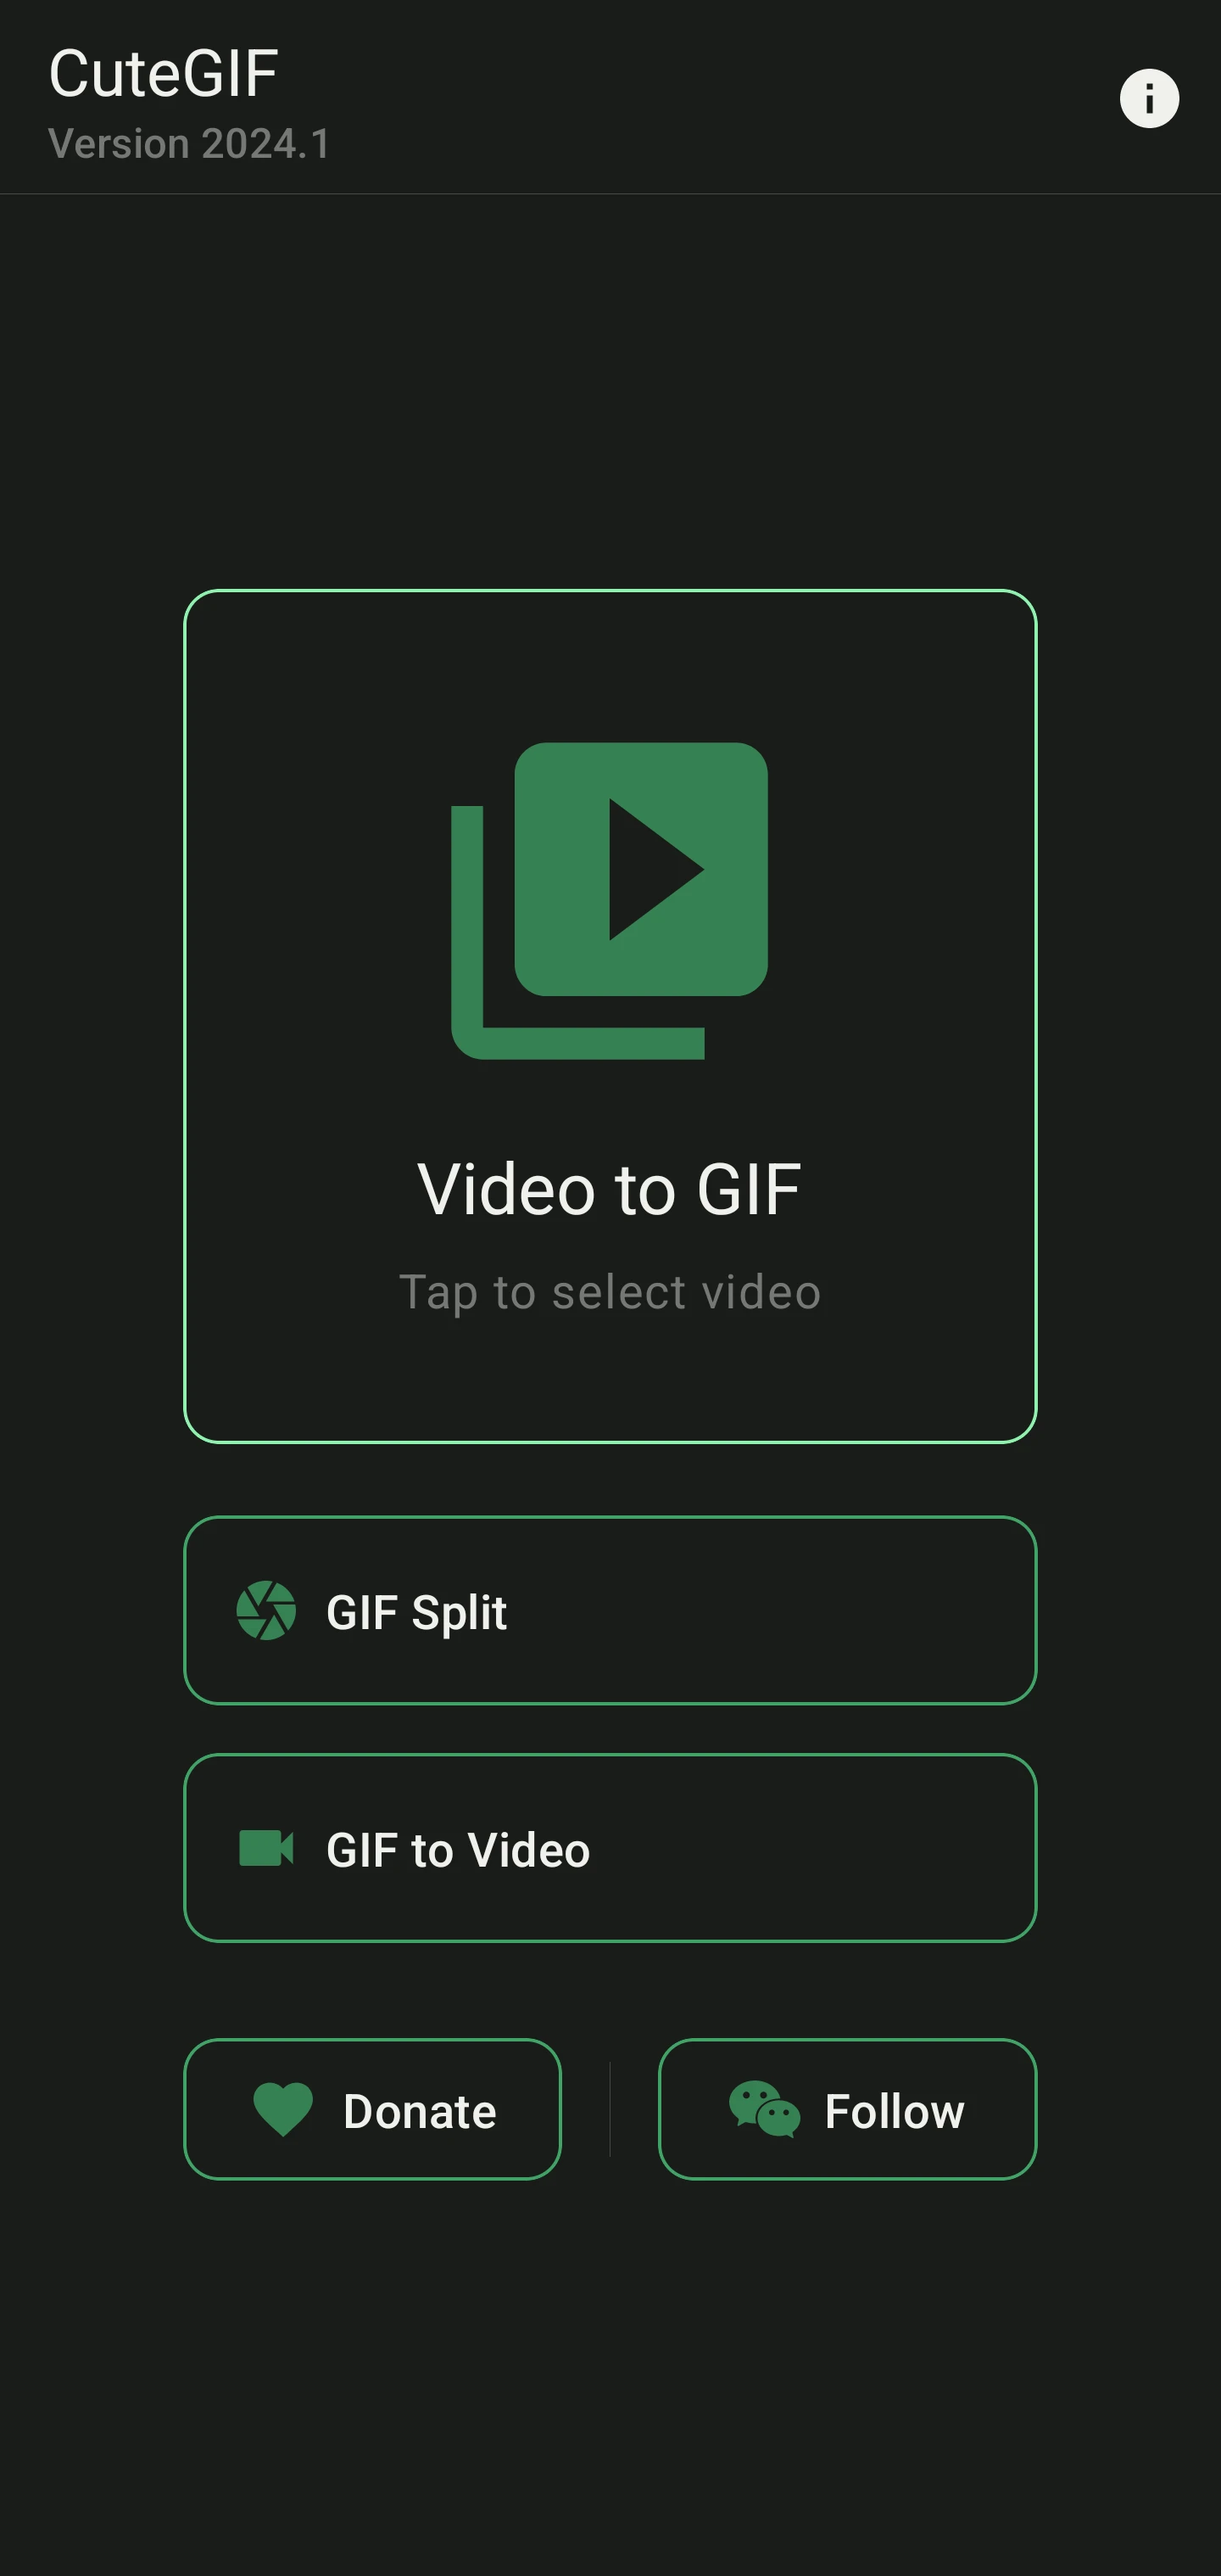
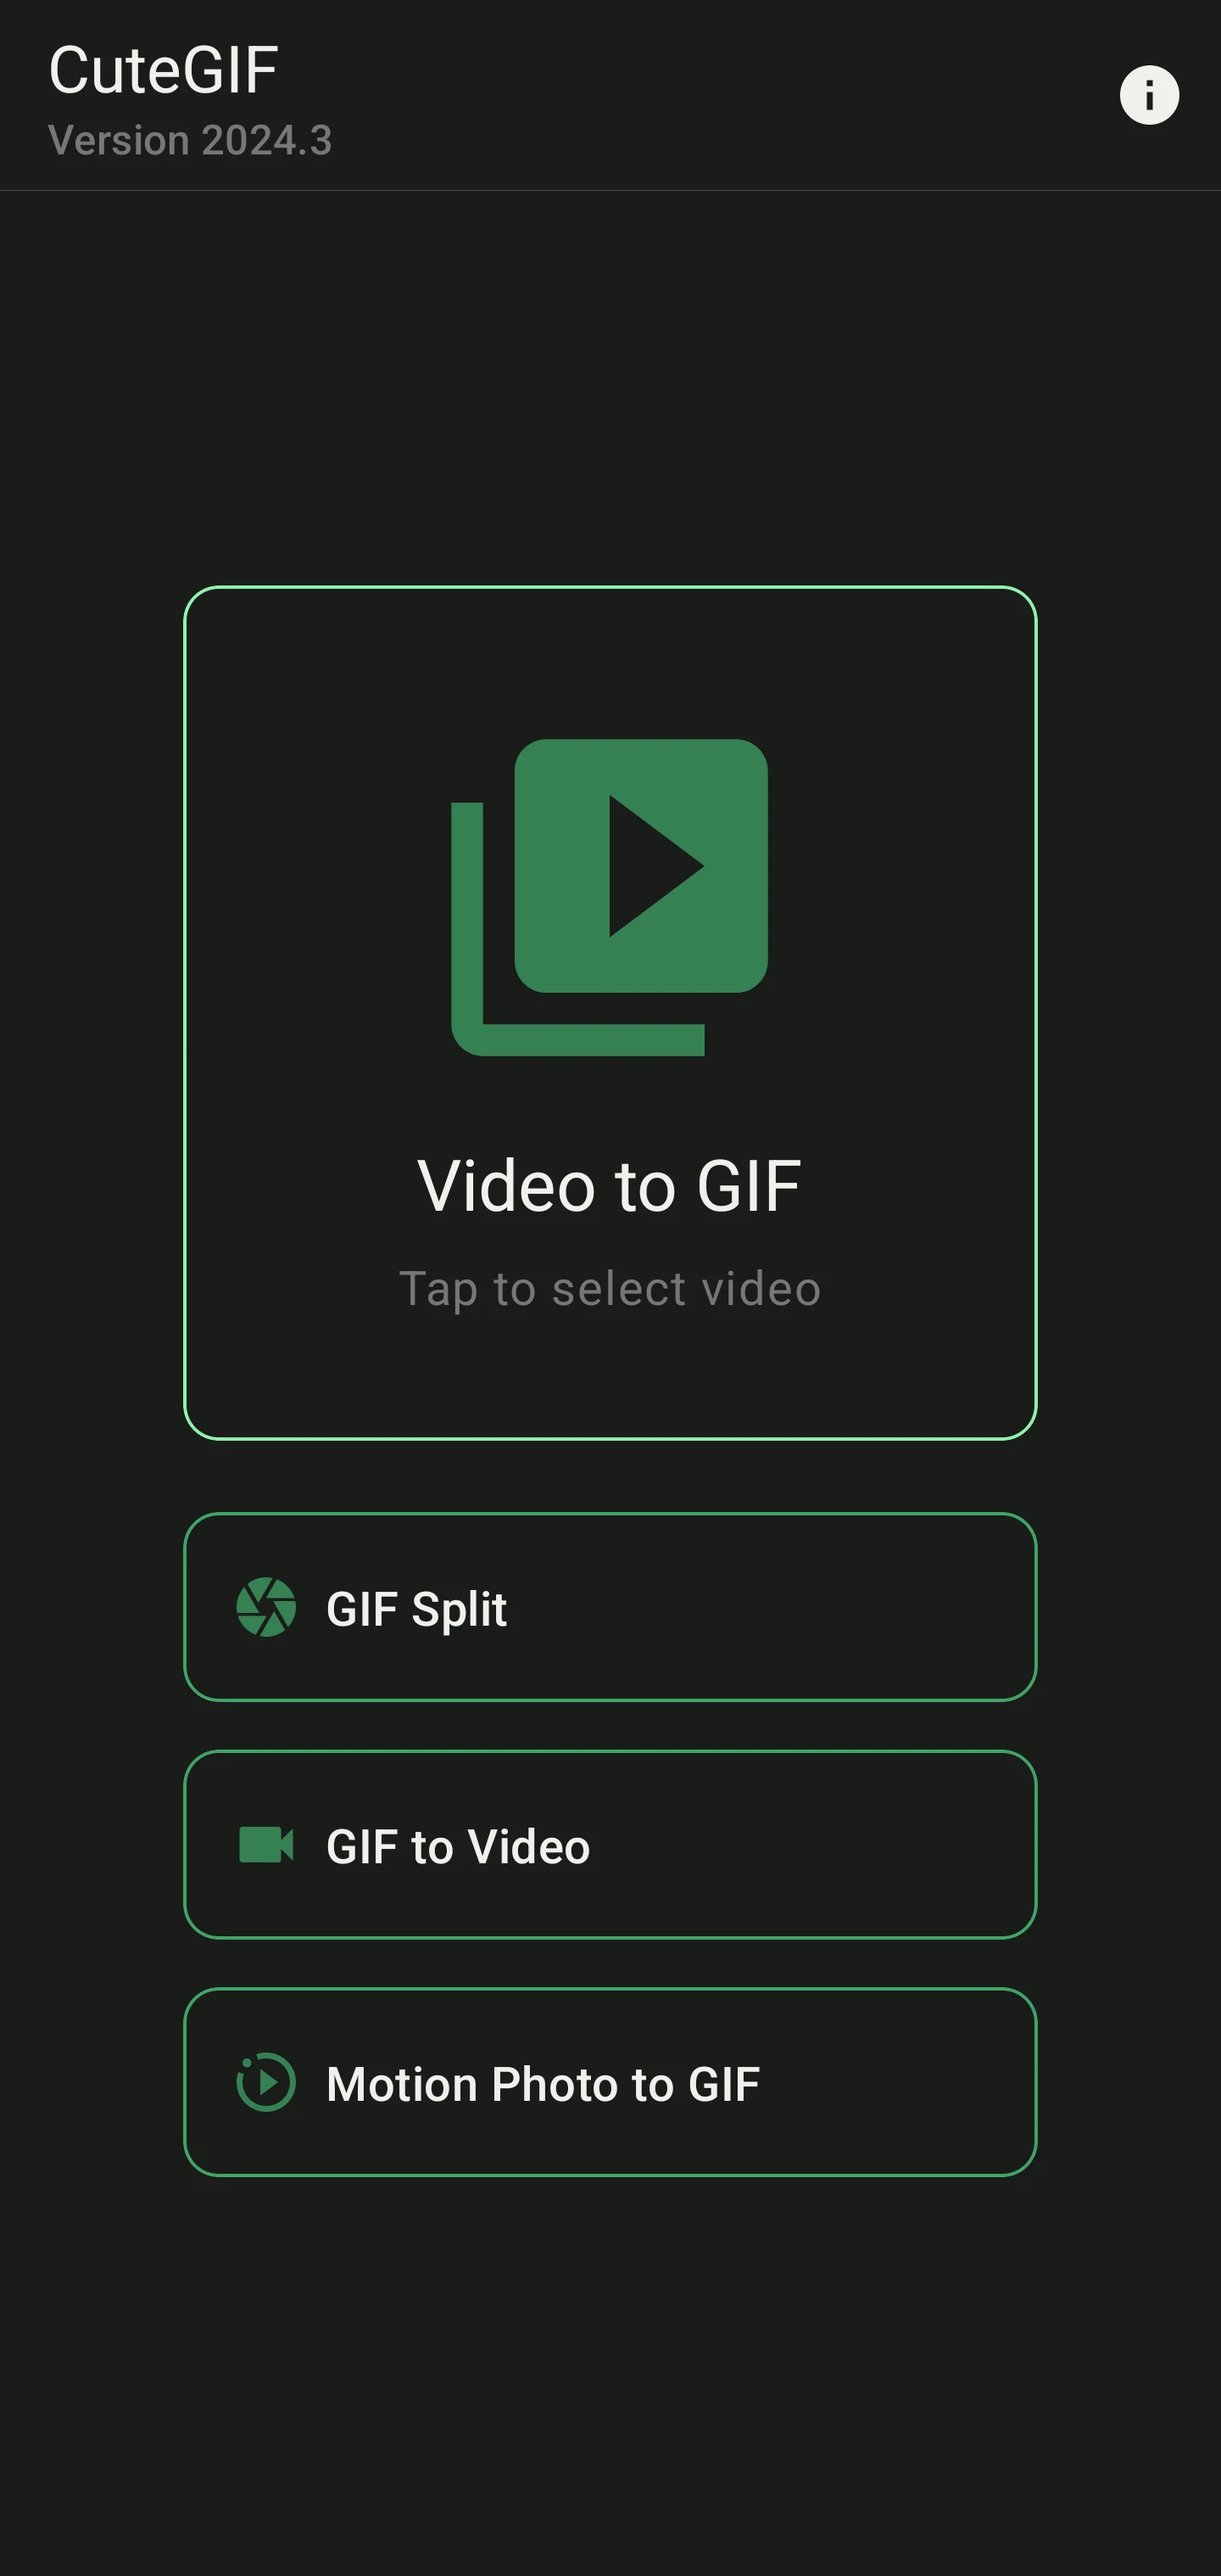
2024.3

diff --git a/README.md b/README.md
@@ -15,12 +15,13 @@ Latest version: `2024.3`.
 - Custom GIF resolution, clarity, color quality, frame rate & more
 - Preview the effect before exporting
 - GIF split and GIF to Video supported
+- Motion Photo to GIF
 
 ---
 
 ## Screenshots
 
-<img src="assets/en/img1.webp" width="240"/> <img src="assets/en/img2.webp" width="240"/> <img src="assets/en/img3.webp" width="240"/>
+<img src="assets/en/img1.webp" width="240"/> <img src="assets/en/img2.webp" width="240"/> <img src="assets/en/img3.webp" width="240"/> <img src="assets/en/img6.webp" width="240"/>
 
 ---
 

diff --git a/assets/zh-rCN/README.md b/assets/zh-rCN/README.md
@@ -16,6 +16,8 @@
 
 <img src="img3.webp" width="480"/>
 
+<img src="img6.webp" width="480"/>
+
 ---
 
 ## 好评墙
